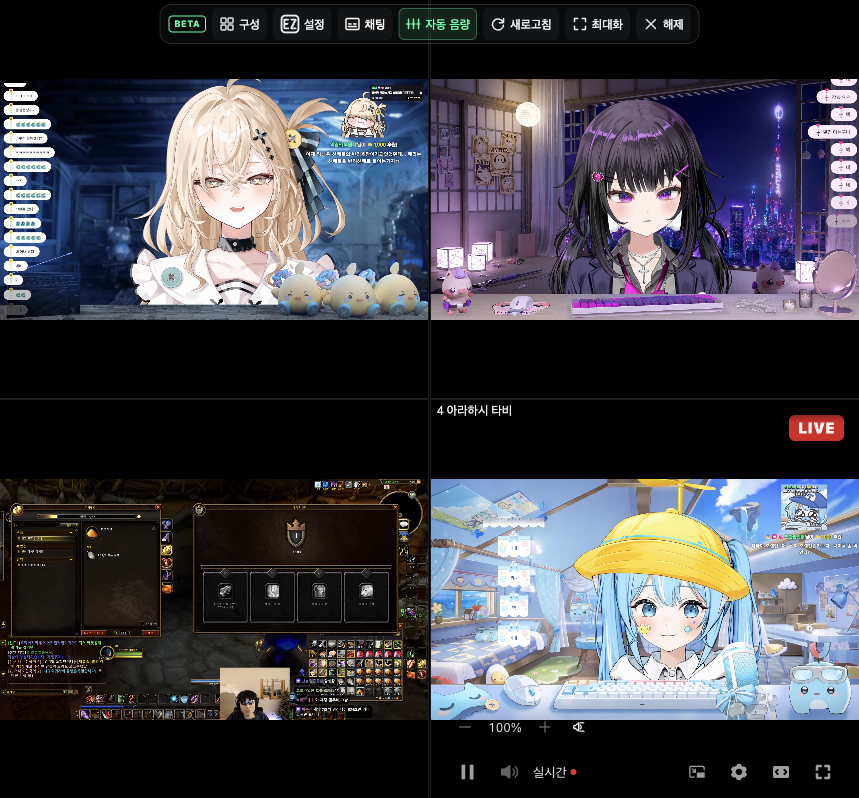
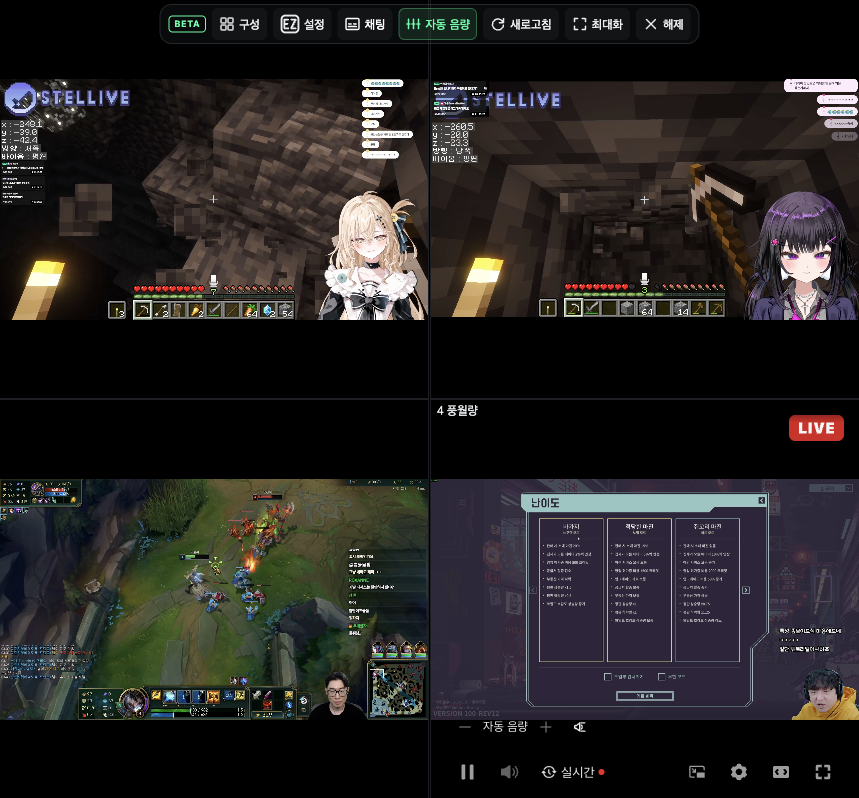
docs: refresh automatic volume state screenshots

diff --git a/screenshots/multiview-volume-lock.md b/screenshots/multiview-volume-lock.md
@@ -1,6 +1,6 @@
 # 멀티뷰 자동 음량 잠금과 복원
 
-2026-11-06. 자동 음량을 켜면 모든 슬롯의 수동 볼륨을 100%로 고정하고 음소거를 해제한다. 확장 볼륨 버튼, 치지직 볼륨 버튼·슬라이더, 음량 단축키를 차단한다. 플레이어가 볼륨을 다시 변경해도 100%로 되돌린다.
+2026-11-06. 자동 음량을 켜면 모든 슬롯의 수동 볼륨을 100%로 고정하고 음소거를 해제한다. 화면에는 숫자 대신 **자동 음량**을 표시한다. 확장 볼륨 버튼, 치지직 볼륨 버튼·슬라이더, 음량 단축키를 차단한다. 플레이어가 볼륨을 다시 변경해도 100%로 되돌린다.
 
 실제 출력은 별도의 자동 보정 게인이 조절한다. 재생 중인 방송의 약 1초 RMS 평균을 모아 공통 목표를 계산한다. 무음·일시정지·측정 불가 방송은 평균에서 제외하고, 과도한 증폭과 혼합 출력 증가를 줄이기 위해 목표 RMS를 0.02~0.08로 제한한다. 측정·보정 주기는 250ms이며 갑자기 커지는 소리는 기존 피크 제한으로 처리한다. RMS 기준이므로 음악과 대화의 체감 음량을 완전히 동일하게 보장하지는 않는다.
 
@@ -29,13 +29,13 @@ Chromium에 빌드한 확장을 로드하고 서로 다른 진폭의 WAV 4개를
 
 ## 2026-11-07 스크린샷 갱신
 
-CI 수정 커밋 `18e5b5e`를 빌드하고, Claude의 `agent-browser` 스킬에 따라 전용 Chrome 프로필에서 실제 방송 4개를 재생해 촬영했다. 광고가 끝나고 모든 영상의 재생 시계가 진행하는 것을 확인했다. 촬영 탭의 오디오는 탭 수준에서 음소거해 시스템 출력에 영향을 주지 않았다.
+표시 변경 커밋 `dd63f3a`를 빌드하고, Claude의 `agent-browser` 스킬에 따라 전용 Chrome 프로필에서 실제 방송 4개를 재생해 촬영했다. 광고가 끝나고 모든 영상의 재생 시계가 진행하는 것을 확인했다. 촬영 탭의 오디오는 탭 수준에서 음소거해 시스템 출력에 영향을 주지 않았다.
 
-- **자동 음량 ON:** 4개 슬롯 모두 100%·음소거 해제·볼륨 버튼 비활성화
-- **859×798 뷰포트 전환:** 영상 재생과 100% 잠금 유지
+- **자동 음량 ON:** 4개 슬롯 모두 “자동 음량” 표시·음소거 해제·볼륨 버튼 비활성화. 내부 입력 볼륨은 100% 유지
+- **859×798 뷰포트 전환:** 영상 재생과 “자동 음량” 표시·잠금 유지
 - **자동 음량 OFF:** 30%·50%·80%·150%로 복원, 수동 볼륨 버튼 활성화
 
-캡처는 데스크톱 1440×900과 좁은 859×798 브라우저 뷰포트 기준이다. 실물 폴드 기기를 촬영한 것은 아니다. 네이티브 컨트롤바는 포인터가 있는 슬롯에 표시되며, 4개 슬롯의 검증 상태는 [실방송 캡처 기록](multiview-volume-lock-capture.json)에 남겼다. 방송 영상 위에 검증용 표시를 덧씌우지 않았다.
+캡처는 데스크톱 1440×900과 좁은 859×798 브라우저 뷰포트 기준이다. 추가로 411×900에서 4개 슬롯의 “자동 음량” 문구가 잘리거나 줄바꿈되지 않는 것을 확인했다. 실물 폴드 기기를 촬영한 것은 아니다. 네이티브 컨트롤바는 포인터가 있는 슬롯에 표시되며, 4개 슬롯의 검증 상태는 [실방송 캡처 기록](multiview-volume-lock-capture.json)에 남겼다. 방송 영상 위에 검증용 표시를 덧씌우지 않았다.
 
 ![실제 방송 4개에서 자동 음량 ON](multiview-volume-lock.png)
 
@@ -43,7 +43,7 @@ CI 수정 커밋 `18e5b5e`를 빌드하고, Claude의 `agent-browser` 스킬에 
 
 ![859×798 뷰포트에서 잠금 유지](demo-multiview-volume-lock-fold.png)
 
-CI 실패는 jsdom의 `sessionStorage` 변경 이벤트를 타이머 누수로 잘못 세던 검사 때문이었다. 이벤트를 전달한 뒤 반복 타이머가 남는지 검사하도록 수정했으며, [해당 수정의 GitHub CI](https://github.com/Arc-Jung/ezzzk/actions/runs/42365599124)는 통과했다. Node 24.18.0에서도 아래 검사를 통과했다.
+CI 실패는 jsdom의 `sessionStorage` 변경 이벤트를 타이머 누수로 잘못 세던 검사 때문이었다. 이벤트를 전달한 뒤 반복 타이머가 남는지 검사하도록 수정했으며, [해당 수정의 GitHub CI](https://github.com/Arc-Jung/ezzzk/actions/runs/42365599124)는 통과했다. 현재 Node 24.22.2에서도 아래 검사를 통과했다.
 
 ```sh
 yarn test

diff --git a/Docs/CHANGELOG.md b/Docs/CHANGELOG.md
@@ -1,5 +1,9 @@
 # 변경 이력
 
+### 2026-11-07
+
+- **자동 음량 상태 표시 개선** — 자동 음량을 켠 동안 볼륨 숫자 대신 “자동 음량”을 표시한다. 끄면 이전 퍼센트·음소거 표시로 돌아가며, 좁은 화면에서도 문구가 줄바꿈되지 않는다.
+
 ### 2026-11-06
 
 - **멀티뷰 자동 음량 개선** — 켜면 모든 방송의 볼륨을 100%로 고정하고 수동 조절을 잠근다. 재생 중인 방송의 평균 음량을 기준으로 실제 출력을 보정하며, 끄면 기존 방송별 볼륨·증폭·음소거 상태로 돌아간다. 프레임 재접속 후에도 복원값을 유지한다.
